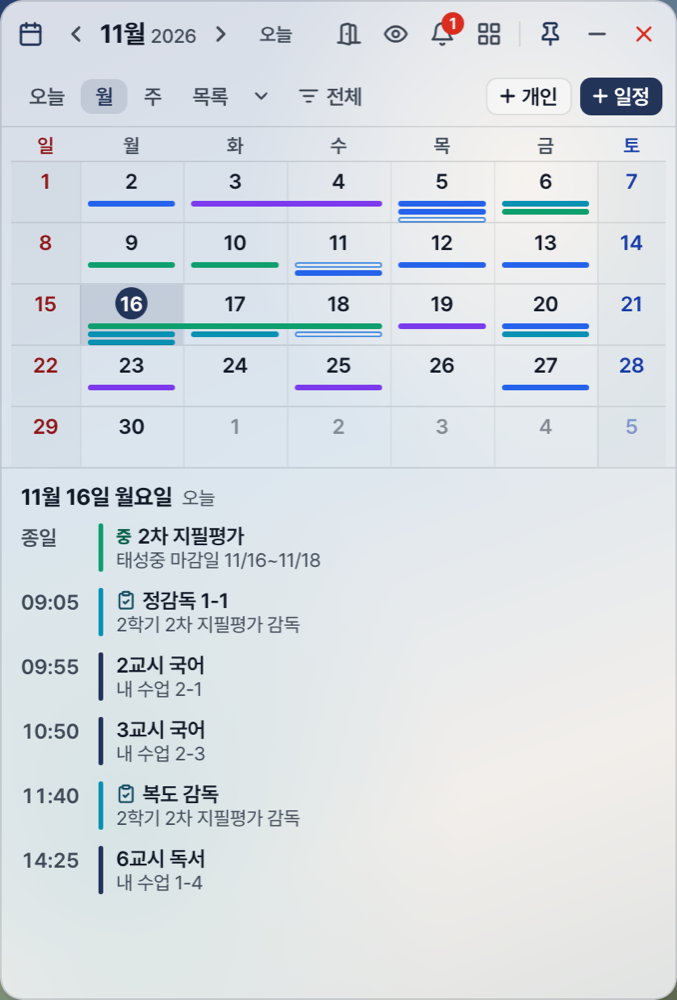
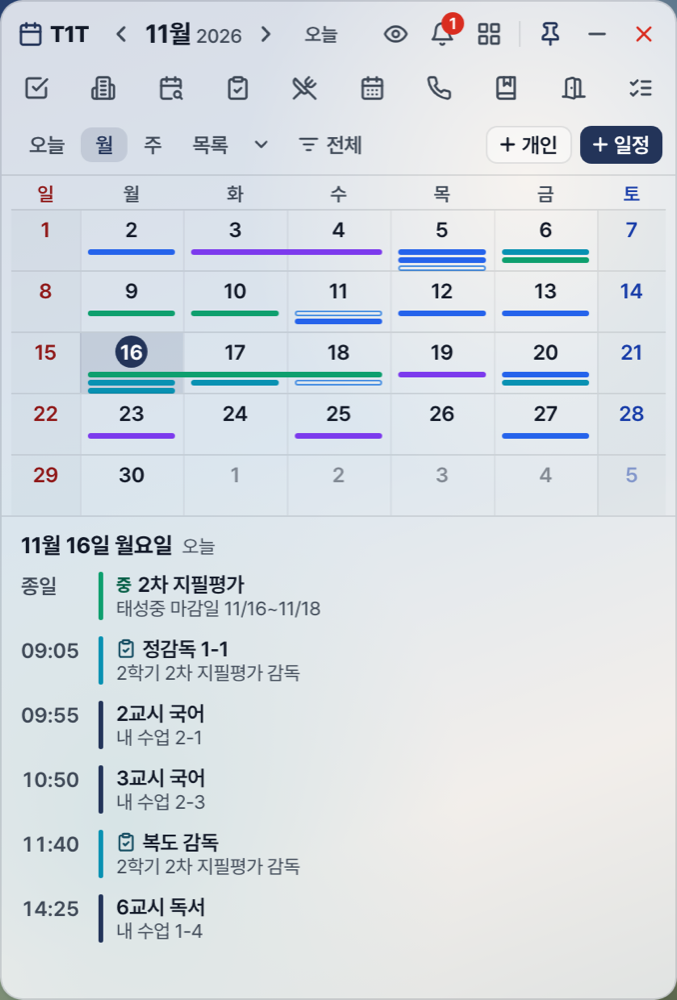
docs: 안내서와 README에 새 이름, 아이콘 줄, 회의 찾기 반영

diff --git a/docs/T1T-교사_사용안내서.html b/docs/T1T-교사_사용안내서.html
@@ -121,7 +121,7 @@
 <div class="cover">
   <h1>T1T 교사 사용 안내서</h1>
   <div class="tag">학교 일정 공유 시스템 · 태성중·고</div>
-  <div class="ver">v2.6.3 기준 · 2026.11</div>
+  <div class="ver">v2.6.4 기준 · 2026.11</div>
 </div>
 
 <div class="toc">
@@ -138,7 +138,7 @@
     <li>수업 화면 보호</li>
     <li>컴시간 시간표</li>
     <li>회의 시간 찾기</li>
-    <li>시험 감독·당직 표</li>
+    <li>시험감독 표</li>
     <li>테마와 개인 옵션</li>
     <li>외부 도구</li>
     <li>업데이트와 종료</li>
@@ -169,7 +169,7 @@
   <div class="feature"><b>쪽지 · 공문 붙여넣기</b><div class="desc">날짜를 읽어 개인 일정 초안을 만듭니다</div></div>
   <div class="feature"><b>수업 화면 보호</b><div class="desc">내 수업 시간에 개인 일정을 자동으로 가립니다</div></div>
   <div class="feature"><b>회의 시간 찾기</b><div class="desc">대상 교사가 모두 수업이 없는 교시를 보여 줍니다</div></div>
-  <div class="feature"><b>시험 감독 · 당직 표</b><div class="desc">표를 붙여 넣으면 각자 달력에 차례가 나타납니다</div></div>
+  <div class="feature"><b>시험감독 표</b><div class="desc">표를 붙여 넣으면 각자 달력에 차례가 나타납니다</div></div>
   <div class="feature"><b>컴시간 시간표</b><div class="desc">내 수업 표시, 수업 전 알림, 수업 변경 알림</div></div>
   <div class="feature"><b>테마와 개인 옵션</b><div class="desc">테마 7종, 강조색, 글자 크기, 크게 보기</div></div>
   <div class="feature"><b>일정 알림</b><div class="desc">10분 · 30분 · 1시간 · 1일 전 알림</div></div>
@@ -178,7 +178,7 @@
   <div class="feature"><b>급식 · 학사일정</b><div class="desc">학교 홈페이지에서 자동으로 가져옵니다</div></div>
   <div class="feature"><b>키폰 번호부</b><div class="desc">양교 부서 · 교사 번호 검색</div></div>
   <div class="feature"><b>회의실 · 도서관</b><div class="desc">회의실 예약과 독서로 도서 검색을 앱 안에서</div></div>
-  <div class="feature"><b>출결 · 외출</b><div class="desc">TPass와 외출 신청 페이지를 앱 안에서 엽니다</div></div>
+  <div class="feature"><b>외출시스템 · 외출상황</b><div class="desc">외출·조퇴 시스템과 외출 신청 조회를 앱 안에서 엽니다</div></div>
 </div>
 
 <div class="pb"></div>
@@ -311,18 +311,18 @@
 </table>
 
 <h3>제목 줄과 도구 모음</h3>
-<p>제목 줄에는 날짜 이동, 외출(문 아이콘), 개인 일정 가리기(눈 아이콘), 알림(종 아이콘), 도구 모음(격자 아이콘)이 있습니다. 창이 넓으면 할 일, 급식, 키폰, 검색, 설정이 함께 보입니다.</p>
+<p>제목 줄에는 날짜 이동, 개인 일정 가리기(눈 아이콘), 알림(종 아이콘), 도구 모음(격자 아이콘)이 있습니다. 그 아래 아이콘 줄에 할 일, 회의실, 회의 찾기, 시험감독, 급식, 학사일정, 키폰, 도서관, 외출시스템, 외출상황이 늘 보입니다. 아이콘에 마우스를 올리면 이름이 나옵니다. 창이 아주 넓으면 아이콘이 제목 줄로 합쳐지고 검색과 설정도 함께 보입니다.</p>
 <div class="toolbar">
   <div class="ic-card"><div class="nm">할 일</div><div class="ds">내 작업 관리</div></div>
   <div class="ic-card"><div class="nm">회의실</div><div class="ds">회의실 예약</div></div>
   <div class="ic-card"><div class="nm">회의 찾기</div><div class="ds">모두 비는 교시</div></div>
-  <div class="ic-card"><div class="nm">감독·당직</div><div class="ds">내 차례와 표</div></div>
+  <div class="ic-card"><div class="nm">시험감독</div><div class="ds">내 차례와 표</div></div>
   <div class="ic-card"><div class="nm">급식</div><div class="ds">주간 식단</div></div>
   <div class="ic-card"><div class="nm">학사일정</div><div class="ds">홈페이지 일정</div></div>
   <div class="ic-card"><div class="nm">키폰</div><div class="ds">양교 번호부</div></div>
   <div class="ic-card"><div class="nm">도서관</div><div class="ds">독서로 검색</div></div>
-  <div class="ic-card"><div class="nm">출결</div><div class="ds">TPass</div></div>
-  <div class="ic-card"><div class="nm">외출</div><div class="ds">외출 신청 조회</div></div>
+  <div class="ic-card"><div class="nm">외출시스템</div><div class="ds">외출·조퇴 시스템</div></div>
+  <div class="ic-card"><div class="nm">외출상황</div><div class="ds">외출 신청 조회</div></div>
   <div class="ic-card"><div class="nm">검색 · 붙여넣기</div><div class="ds">일정 찾기, 공문에서 일정</div></div>
   <div class="ic-card"><div class="nm">인쇄 · 내보내기</div><div class="ds">달력 인쇄, .ics 파일</div></div>
   <div class="ic-card"><div class="nm">수업 표시</div><div class="ds">달력에 내 수업 켜고 끄기</div></div>
@@ -422,22 +422,23 @@
 </div>
 
 <h2>11. 회의 시간 찾기</h2>
-<figure class="shot" style="width:72%; margin:6pt auto;"><img src="guide-img/meeting-finder.png" alt="회의 시간 찾기"><figcaption>대상을 고르면 모두 수업이 없는 교시가 "가능"으로 나옵니다 (예시 이름)</figcaption></figure>
+<figure class="shot" style="width:72%; margin:6pt auto;"><img src="guide-img/meeting-finder.png" alt="회의 시간 찾기"><figcaption>회원과 요일을 고르면 공강 추천 5곳이 나옵니다 (예시 이름)</figcaption></figure>
 <div class="step">
   <ol>
-    <li>도구 모음에서 <b>회의 찾기</b>를 엽니다.</li>
-    <li>학교, 수업 학년, 과목, 이름으로 찾아 대상을 고릅니다. 자주 쓰는 대상은 <b>묶음</b>으로 저장해 두면 이 PC에서 다시 불러올 수 있습니다.</li>
-    <li>격자를 봅니다. <b>가능</b> = 모두 수업 없음, <b>2명</b> = 2명이 수업 중, <b>일정</b> = 수업은 없지만 공유 일정과 겹침, 빈칸 = 지났거나 쉬는 날.</li>
-    <li>칸을 누르고 <b>이 시간으로 공유 일정 만들기</b>를 누르면 참석 · 불참 응답을 받는 일정 창이 채워져 열립니다.</li>
+    <li>아이콘 줄이나 도구 모음에서 <b>회의 찾기</b>를 엽니다.</li>
+    <li><b>가입한 회원</b>을 눌러 고릅니다. 학교, 수업 학년, 과목, 이름으로 좁힐 수 있습니다. 자주 쓰는 대상은 <b>묶음</b>으로 저장해 두면 이 PC에서 다시 불러올 수 있습니다.</li>
+    <li>원하는 <b>주</b>와 <b>요일</b>을 고릅니다. 요일 단추를 누르면 켜고 끕니다.</li>
+    <li><b>추천 공강 5곳</b>이 나옵니다. 모두 공강 → 공유 일정 없음 → 종일 일정 없는 날 → 수업 시간 안 → 연속 공강 순서로 따져 고르고, 맞지 않는 조건은 글로 알려 줍니다. 모두 되는 시간이 모자라면 가장 많이 되는 시간으로 채웁니다.</li>
+    <li>추천을 누르고 <b>이 시간으로 공유 일정 만들기</b>를 누르면 참석 · 불참 응답을 받는 일정 창이 채워져 열립니다.</li>
   </ol>
 </div>
 <div class="tip">
   <b>컴시간 시간표와 공유 일정만 봅니다.</b> 개인 일정과 구글 일정은 계산에 쓰지 않으므로, 개인 사정과 겹치는 시간이 나올 수 있습니다. 그때는 불참으로 답해 주시면 됩니다. 수업 중인 분은 이름 없이 인원수만 보여 줍니다.
 </div>
-<p class="small">컴시간은 이번 주 시간표만 알려 주므로 다음 주 이후는 이번 주 시간표로 어림합니다. 이름 대신 두 글자로 보이는 분은 아직 계정과 연결되지 않은 컴시간 표기입니다.</p>
+<p class="small">모든 칸을 보려면 <b>전체 표 보기</b>를 누릅니다. <b>가능</b> = 모두 수업 없음, <b>2명</b> = 2명이 수업 중, <b>일정</b> = 수업은 없지만 공유 일정과 겹침입니다. 컴시간은 이번 주 시간표만 알려 주므로 다음 주 이후는 이번 주 시간표로 어림합니다. 가입해 시간표가 연결된 회원만 나오며, 관리자가 연결을 저장하기 전에는 컴시간 표기로 보입니다.</p>
 <p class="small"><b>관리자:</b> 도구 모음 &gt; 관리자 &gt; 컴시간 연결에서 학교를 정하고, 제안을 확인해 표기와 계정을 연결해 저장합니다. 제안은 이름 앞 두 글자가 같다는 뜻일 뿐입니다.</p>
 
-<h2>12. 시험 감독 · 당직 표</h2>
+<h2>12. 시험감독 표</h2>
 <div class="shots">
   <div style="flex:1 1 0; min-width:0;">
     <h3 style="margin-top:0;">선생님</h3>
@@ -447,12 +448,12 @@
       <li>전날 오후 4시, 당일 아침(시각이 없는 차례), 시작 10분 전에 알려 드립니다. 수업 중이면 쉬는 시간으로 미룹니다. <b>설정 &gt; 오늘 화면 위젯</b>에서 끌 수 있습니다.</li>
     </ul>
   </div>
-  <figure class="shot" style="flex:0 0 34%;"><img src="guide-img/duty-view.png" alt="감독·당직 화면"><figcaption>내 차례와 표 목록 (예시)</figcaption></figure>
+  <figure class="shot" style="flex:0 0 34%;"><img src="guide-img/duty-view.png" alt="시험감독 화면"><figcaption>내 차례와 표 목록 (예시)</figcaption></figure>
 </div>
 <h3>담당자</h3>
 <div class="step">
   <ol>
-    <li>도구 모음 &gt; <b>감독·당직</b> &gt; <b>표 붙여넣기</b>를 누릅니다.</li>
+    <li>아이콘 줄이나 도구 모음에서 <b>시험감독</b>을 열고 <b>표 붙여넣기</b>를 누릅니다.</li>
     <li>표 이름, 학교, 기본 종류(시험 감독, 당직 등)를 넣습니다.</li>
     <li>엑셀이나 한글에서 표를 복사해 붙여 넣습니다.</li>
     <li><b>확인할 이름</b>을 고치고, 시험 교시가 수업 시정표와 다르면 <b>교시 시각</b>을 고칩니다.</li>
@@ -486,10 +487,10 @@
 </table>
 
 <h2>14. 외부 도구</h2>
-<h3>출결 (TPass)</h3>
-<p>도구 모음 &gt; <b>출결</b>을 누르면 TPass 화면이 앱 안에서 열립니다.</p>
-<h3>외출</h3>
-<p>제목 줄의 문 아이콘이나 도구 모음 &gt; <b>외출</b>을 누르면 외출 신청 페이지가 앱 안에서 열립니다.</p>
+<h3>외출시스템</h3>
+<p>아이콘 줄의 문 아이콘이나 도구 모음 &gt; <b>외출시스템</b>을 누르면 비밀번호를 넣지 않고 바로 다음 화면이 열립니다.</p>
+<h3>외출상황</h3>
+<p>아이콘 줄의 목록 아이콘이나 도구 모음 &gt; <b>외출상황</b>을 누르면 그날의 외출 신청 내용이 앱 안에서 열립니다.</p>
 <h3>도서관 도서 검색</h3>
 <ul>
   <li>앱 안에 독서로 도서 검색 페이지가 열립니다.</li>
@@ -538,8 +539,8 @@
 </div>
 
 <div class="footer">
-  T1T v2.6.3 · 2026.11 · 태성중·고 학교 일정 공유 시스템<br>
-  본 안내서는 v2.6.3 기준이며, 자동 업데이트로 일부 화면이 다를 수 있습니다. 그림의 이름은 예시입니다.
+  T1T v2.6.4 · 2026.11 · 태성중·고 학교 일정 공유 시스템<br>
+  본 안내서는 v2.6.4 기준이며, 자동 업데이트로 일부 화면이 다를 수 있습니다. 그림의 이름은 예시입니다.
 </div>
 
 </body>

diff --git a/README.md b/README.md
@@ -10,8 +10,8 @@
 - 📋 **다중 뷰** — 오늘 / 월 / 주 / 일 / 년 / 목록 / 통계 (오늘과 주는 교시 기준)
 - 🔁 **반복 일정과 일정 응답** — 평일·매주·격주·매월, 참석·불참·확인
 - 🔒 **수업 화면 보호** — 내 수업 시간에 개인 일정 자동 가리기, Ctrl+Shift+H
-- 🔎 **회의 시간 찾기** — 시간표와 공유 일정만으로 모두 비는 교시 찾기
-- 🗂 **시험 감독·당직 표** — 표를 붙여 넣으면 각자 달력에 차례 표시
+- 🔎 **회의 시간 찾기** — 회원과 요일을 고르면 시간표와 공유 일정만으로 공강 5곳 추천
+- 🗂 **시험감독 표** — 표를 붙여 넣으면 각자 달력에 차례 표시
 - 📝 **쪽지·공문 붙여넣기** — 날짜를 읽어 개인 일정 초안 만들기
 - 🎨 **테마 7종과 개인 옵션** — 강조색, 글자 크기, 크게 보기, 색 구분 돕기
 - ✅ **할 일** — 우선순위·마감일·인라인 수정
@@ -23,7 +23,8 @@
 - 📤 **.ics 내보내기** (Google/Apple/Outlook 호환)
 - ⌨ **키보드 단축키** (N/T/M/W/D/Y/A/S/← →//)
 - 🪄 **자연어 입력** ("내일 3시", "다음주 월요일")
-- 🌐 **회의실 예약** (TPass 통합)
+- 🌐 **회의실 예약**
+- 🚪 **외출시스템 · 외출상황** — 외출·조퇴 시스템과 외출 신청 조회를 앱 안에서 열기
 
 ## 🛠 기술 스택
 
@@ -63,8 +64,9 @@ VITE_FIREBASE_MESSAGING_SENDER_ID=...
 VITE_FIREBASE_APP_ID=...
 GOOGLE_CLIENT_ID=...        # Google Calendar OAuth (선택)
 GOOGLE_REDIRECT_URI=...     # OAuth 콜백 URL (선택)
-VITE_TPASS_URL="..."        # TPass 페이지 주소 (비우면 안내 화면 표시)
-VITE_OUTING_URL="..."       # 외출 신청 기본 주소 (비우면 안내 화면 표시)
+VITE_TPASS_URL="..."        # 외출시스템 페이지 주소 (비우면 안내 화면 표시)
+VITE_OUTING_URL="..."       # 외출상황 기본 주소 (비우면 안내 화면 표시)
+TPASS_PASSWORD="..."        # 외출시스템 비밀번호 자동 입력 값 (비우면 직접 입력)
 ```
 
 `.env` 값은 커밋되지 않지만 빌드하면 설치 파일에 들어갑니다. 설치 파일은 풀어서 읽을 수 있으므로 비밀번호 같은 비밀값은 `.env`로 주입하지 마세요.
